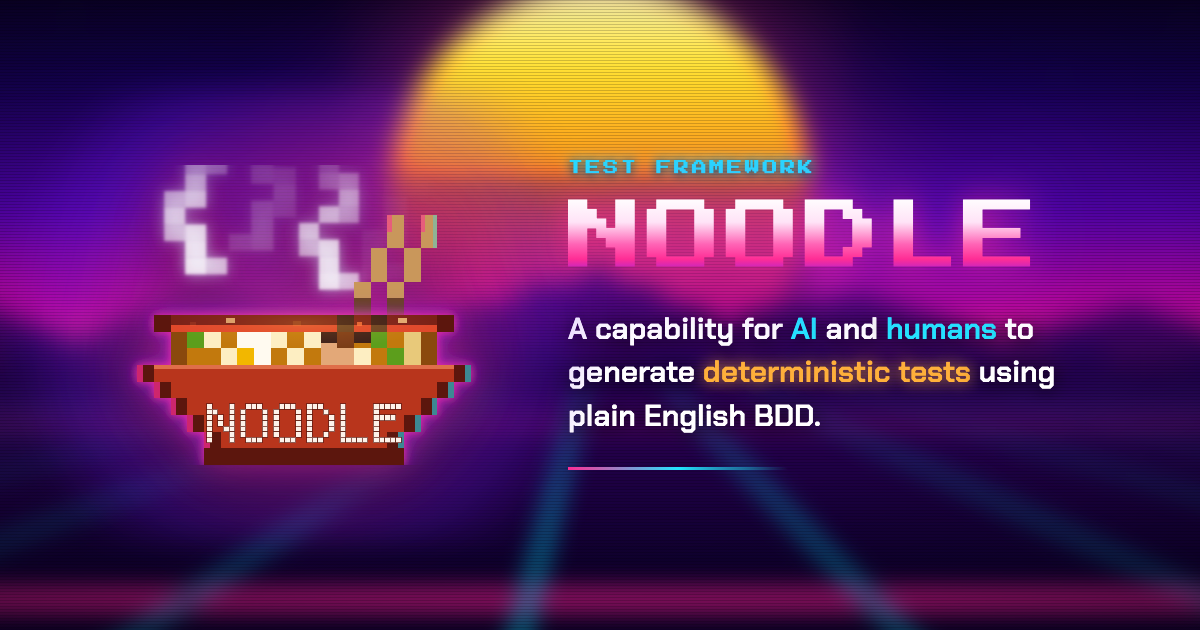
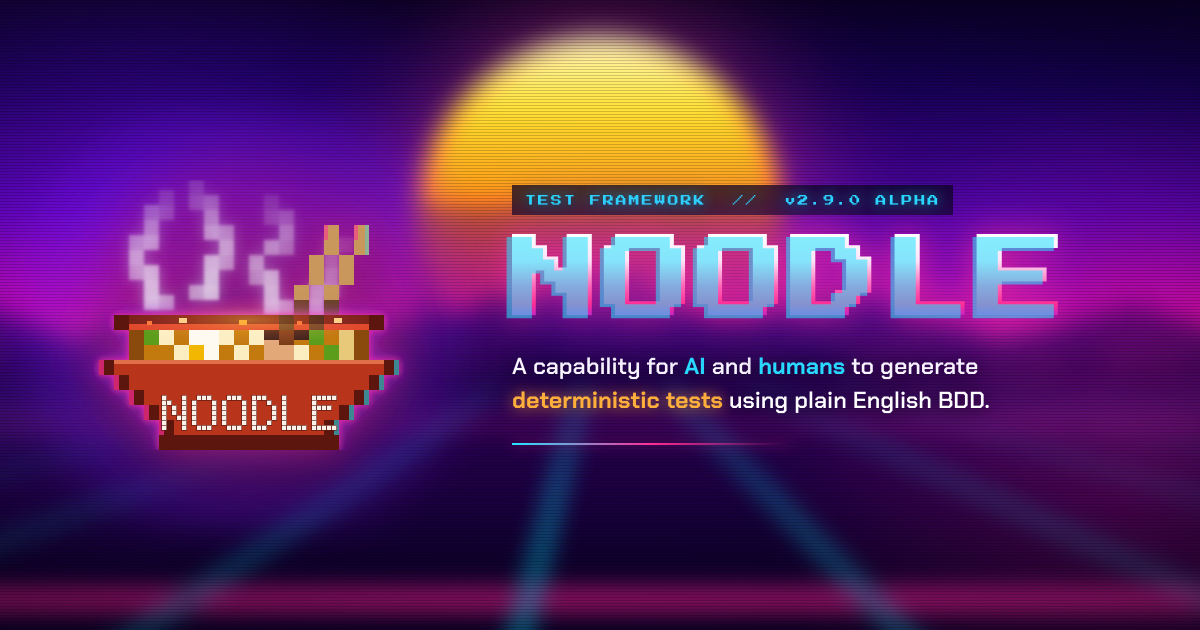
NLANDING_0011 style:re-exports the social card from the hero's own stylesheet
The card was a hand-drawn render that had to be redrawn by hand every time the
hero moved, and it had already fallen behind — no version, and nothing tying it
to the page it represents.

tools/og-card.html is the source now: the same styles.css the hero uses, laid
out as a fixed 1200x630 plate, so the card is re-exported rather than redrawn.
Rendering it with --force-prefers-reduced-motion freezes the steam, the float
and the halo pulse, which is what makes the export deterministic instead of
whatever frame the screenshot happened to catch.

Not part of the site — nothing links to it, and it costs the visitor nothing.

diff --git a/tools/og-card.html b/tools/og-card.html
@@ -1,0 +1,127 @@
+<!DOCTYPE html>
+<html lang="en">
+<head>
+<meta charset="utf-8">
+<title>Noodle — social card source (1200×630)</title>
+
+<!--
+  Source for assets/img/og-cover.png.
+
+  It is not part of the site — nothing links to it. It exists so the social
+  card can be re-exported from the same stylesheet the hero uses, instead of
+  being redrawn by hand every time the hero changes. Serve the repo and render
+  this page at exactly 1200×630:
+
+    python3 -m http.server 8000
+    chrome --headless --force-prefers-reduced-motion \
+           --window-size=1200,630 --screenshot=assets/img/og-cover.png \
+           http://127.0.0.1:8000/tools/og-card.html
+
+  --force-prefers-reduced-motion matters: it freezes the steam, the float and
+  the halo pulse, so the export is deterministic rather than whatever frame the
+  screenshot happened to catch.
+-->
+
+<link rel="stylesheet" href="../assets/css/styles.css">
+<style>
+  /* The card is a fixed 1200×630 plate, not a responsive page, so the hero's
+     centred column becomes two columns and the vw-based clamps settle at their
+     ceilings. Everything else is inherited from styles.css on purpose. */
+
+  html, body {
+    width: 1200px;
+    height: 630px;
+    overflow: hidden;
+  }
+
+  .og {
+    position: relative;
+    z-index: 3;
+    box-sizing: border-box;
+    display: grid;
+    grid-template-columns: 430px 1fr;
+    align-items: center;
+    gap: 48px;
+    width: 1200px;
+    height: 630px;
+    padding: 0 70px 0 34px;
+  }
+
+  .og .logo-stage {
+    width: 360px;
+    margin: 0 auto;
+  }
+
+  .og-copy { text-align: left; }
+
+  /* The sun sits directly behind this line on the card, and cyan on orange is
+     unreadable — same dark pill the page's section labels use. */
+  .og-copy .kicker {
+    display: inline-block;
+    margin: 0 0 16px;
+    padding: 7px 13px 6px;
+    background: rgba(8, 2, 24, .72);
+    backdrop-filter: blur(5px);
+  }
+  .og-copy .wordmark { margin: 0 0 20px; }
+
+  .og-copy .tagline {
+    max-width: 620px;
+    margin: 0;
+    line-height: 1.45;
+  }
+
+  .og-rule {
+    width: 280px;
+    height: 2px;
+    margin: 26px 0 0;
+    background: linear-gradient(90deg, var(--cyan), var(--magenta), transparent);
+    box-shadow: 0 0 14px rgba(255, 45, 149, .6);
+  }
+</style>
+</head>
+<body>
+
+<div class="scene" aria-hidden="true">
+  <div class="sky"></div>
+  <div class="stars"></div>
+  <div class="sun"></div>
+  <div class="city"></div>
+  <div class="ridge"></div>
+  <div class="floor"><div class="floor-grid"></div></div>
+  <div class="haze haze-a"></div>
+  <div class="haze haze-b"></div>
+</div>
+
+<div class="crt" aria-hidden="true">
+  <div class="scanlines"></div>
+  <div class="vignette"></div>
+</div>
+
+<div class="og">
+
+  <div class="logo-stage">
+    <div class="logo-halo"></div>
+    <img class="logo" src="../assets/img/noodle-bowl-hot.svg"
+         alt="" width="320" height="240">
+  </div>
+
+  <div class="og-copy">
+    <p class="kicker">TEST FRAMEWORK &nbsp;//&nbsp; v2.9.0 ALPHA</p>
+
+    <h1 class="wordmark">
+      <span class="wordmark-text" data-text="NOODLE">NOODLE</span>
+    </h1>
+
+    <p class="tagline">
+      A capability for <b>AI</b> and <b>humans</b> to generate
+      <b class="hot">deterministic tests</b> using plain&nbsp;English&nbsp;BDD.
+    </p>
+
+    <div class="og-rule"></div>
+  </div>
+
+</div>
+
+</body>
+</html>

diff --git a/README.md b/README.md
@@ -25,6 +25,7 @@ assets/img/guy-eating-ramen.svg   the desk scene — pixel art, self-animating
 assets/img/og-cover.png           1200×630 social card
 assets/img/favicon.svg
 assets/fonts/                     self-hosted woff2 (SIL OFL), latin subset
+tools/og-card.html                source for the social card (not part of the site)
 ```
 
 Static. No build step, no framework, no third-party requests at runtime.
@@ -49,10 +50,21 @@ Pages is set to *Deploy from a branch* → `main`, folder `/ (root)`, so every p
 to `main` republishes. `.nojekyll` is committed so the `assets/` tree is served
 verbatim — without it Jekyll would swallow the fonts.
 
-The social card is a static render of the hero, not a live screenshot: rebuild it
-by pointing a headless browser at a 1200×630 page and re-exporting
-`assets/img/og-cover.png`. The absolute URLs in the `og:` tags are tied to the
-Pages domain, so they need updating if the site moves.
+The social card is a static render of the hero, not a live screenshot. Its
+source is `tools/og-card.html` — the same stylesheet the hero uses, laid out as
+a fixed 1200×630 plate — so re-exporting it keeps the card and the page in step:
+
+```bash
+python3 -m http.server 8000
+chrome --headless --force-prefers-reduced-motion \
+       --window-size=1200,630 --screenshot=assets/img/og-cover.png \
+       http://127.0.0.1:8000/tools/og-card.html
+```
+
+`--force-prefers-reduced-motion` is what makes the export deterministic: it
+freezes the steam, the float and the halo pulse instead of catching whatever
+frame the screenshot lands on. The absolute URLs in the `og:` tags are tied to
+the Pages domain, so they need updating if the site moves.
 
 ---
 
